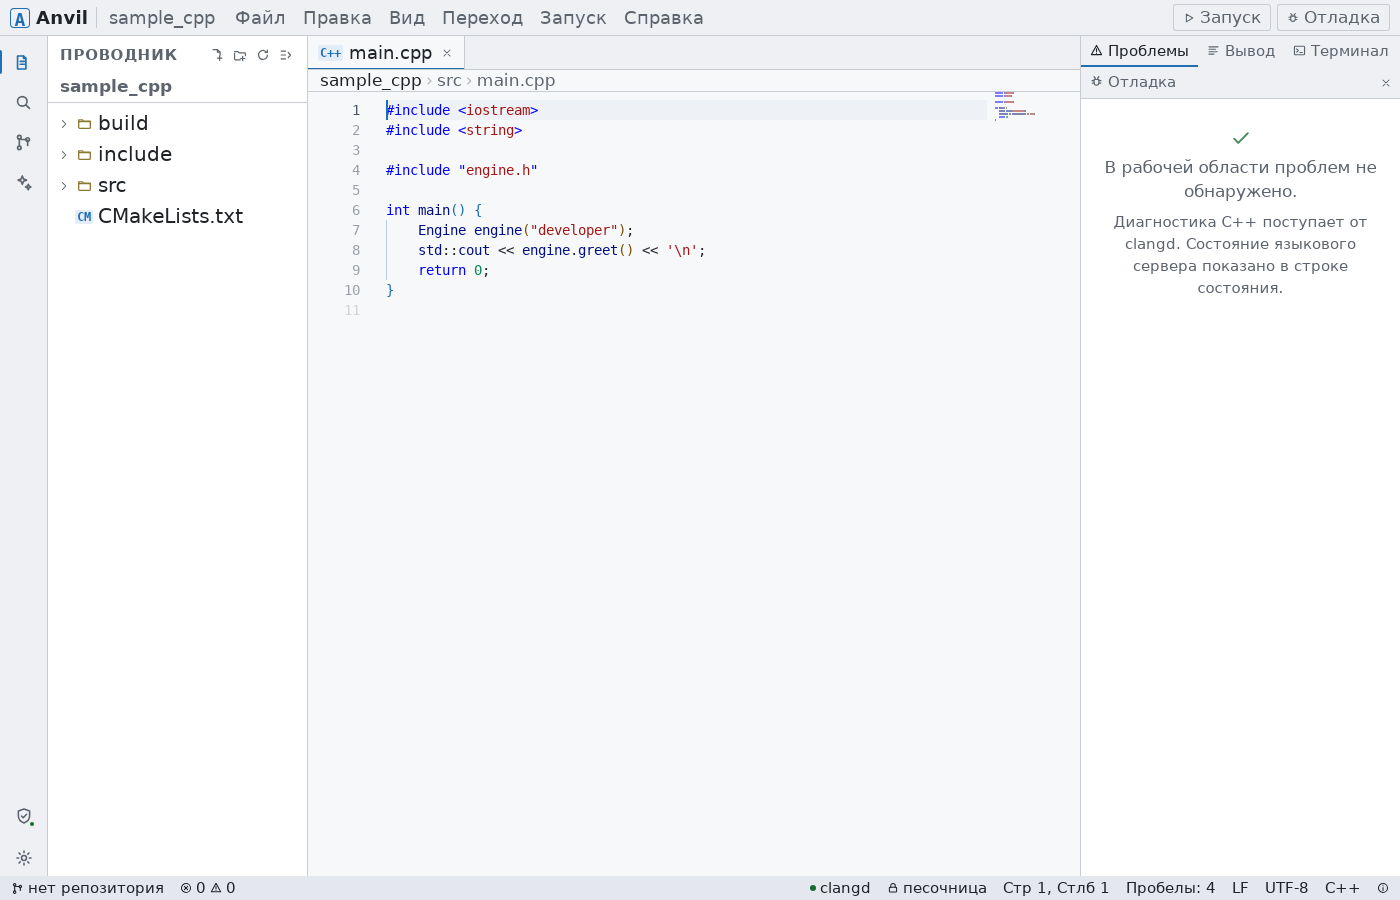
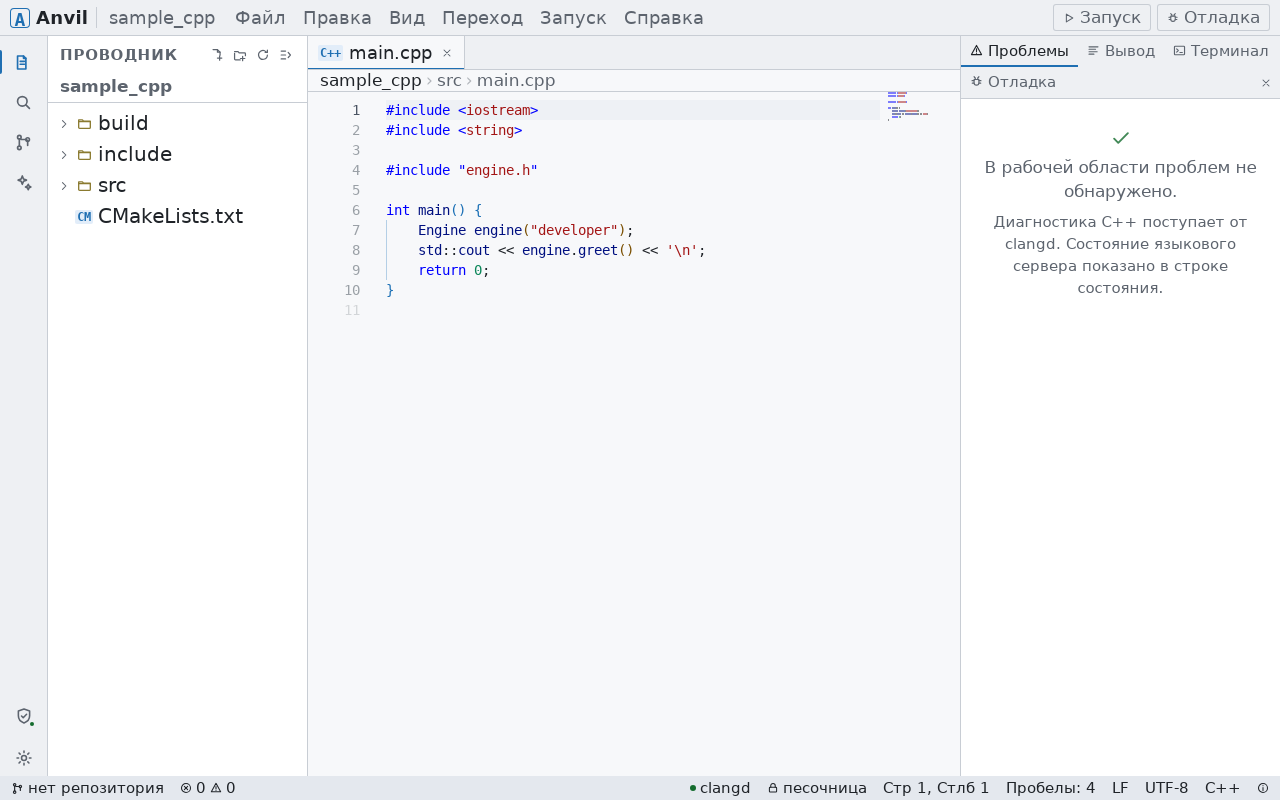
docs: use full-resolution theme and large-font evidence

diff --git a/PROJECT.md b/PROJECT.md
@@ -1014,9 +1014,9 @@ Typecheck/build, E2E screenshots per theme, manual contrast check.
   boot info applies the persisted theme before the first frame.
 - CSS tokens are theme-scoped; Monaco registers `anvil-dark`, `anvil-light`,
   and `anvil-high-contrast`.
-- `npm run check:contrast` passes 4.5:1 for all three themes; screenshots:
-  `docs/screenshots/0.0.2/{ru-light-editor,ru-high-contrast-editor,
-  en-dark-welcome}.png`.
+- `npm run check:contrast` passes 4.5:1 for all three themes; 1920×1080
+  screenshots: `docs/screenshots/0.0.2/{ru-light-editor,
+  ru-high-contrast-editor,en-dark-welcome}.png`.
 
 ---
 
@@ -1189,8 +1189,9 @@ font switch.
   monospace fonts; no network or project access.
 - Family validation is shared by `settings.cpp` and `validate.cpp` and covered
   in `test_settings.cpp` / `test_validate.cpp` (injection attempts rejected).
-- Screenshot at UI font 18 px: `docs/screenshots/0.0.2/ru-light-large-font.png`;
-  panel tabs wrap and the status bar caps chrome text so nothing clips.
+- Screenshot at UI font 18 px and 1280×800:
+  `docs/screenshots/0.0.2/ru-light-large-font.png`; panel tabs wrap and the
+  status bar caps chrome text so nothing clips.
 
 ---
 
